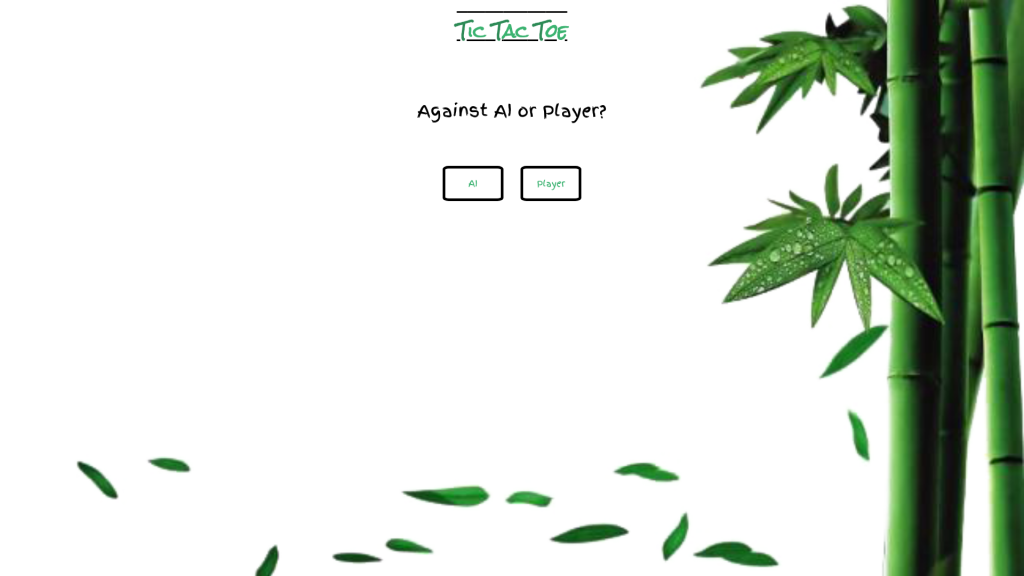
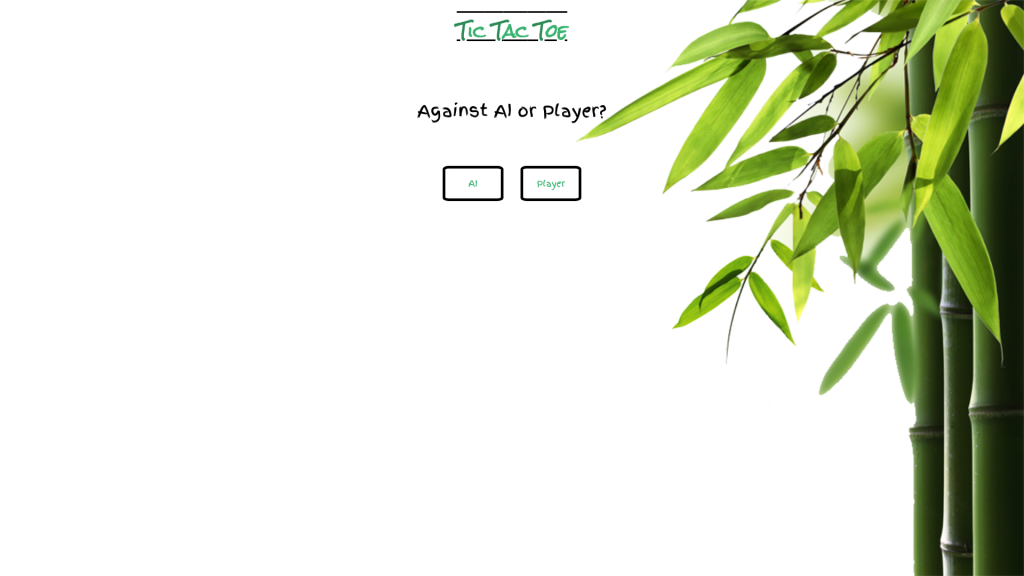
Change players start menu

diff --git a/src/style/index.css b/src/style/index.css
@@ -98,7 +98,7 @@ html, body {
   animation: fadein 5s; 
   content: "";
   background: url("../assets/images/bamboo1.png") no-repeat right top;
-  background-size: cover;
+  background-size: contain;
   top: 0;
   left: 0;
   bottom: 0;
